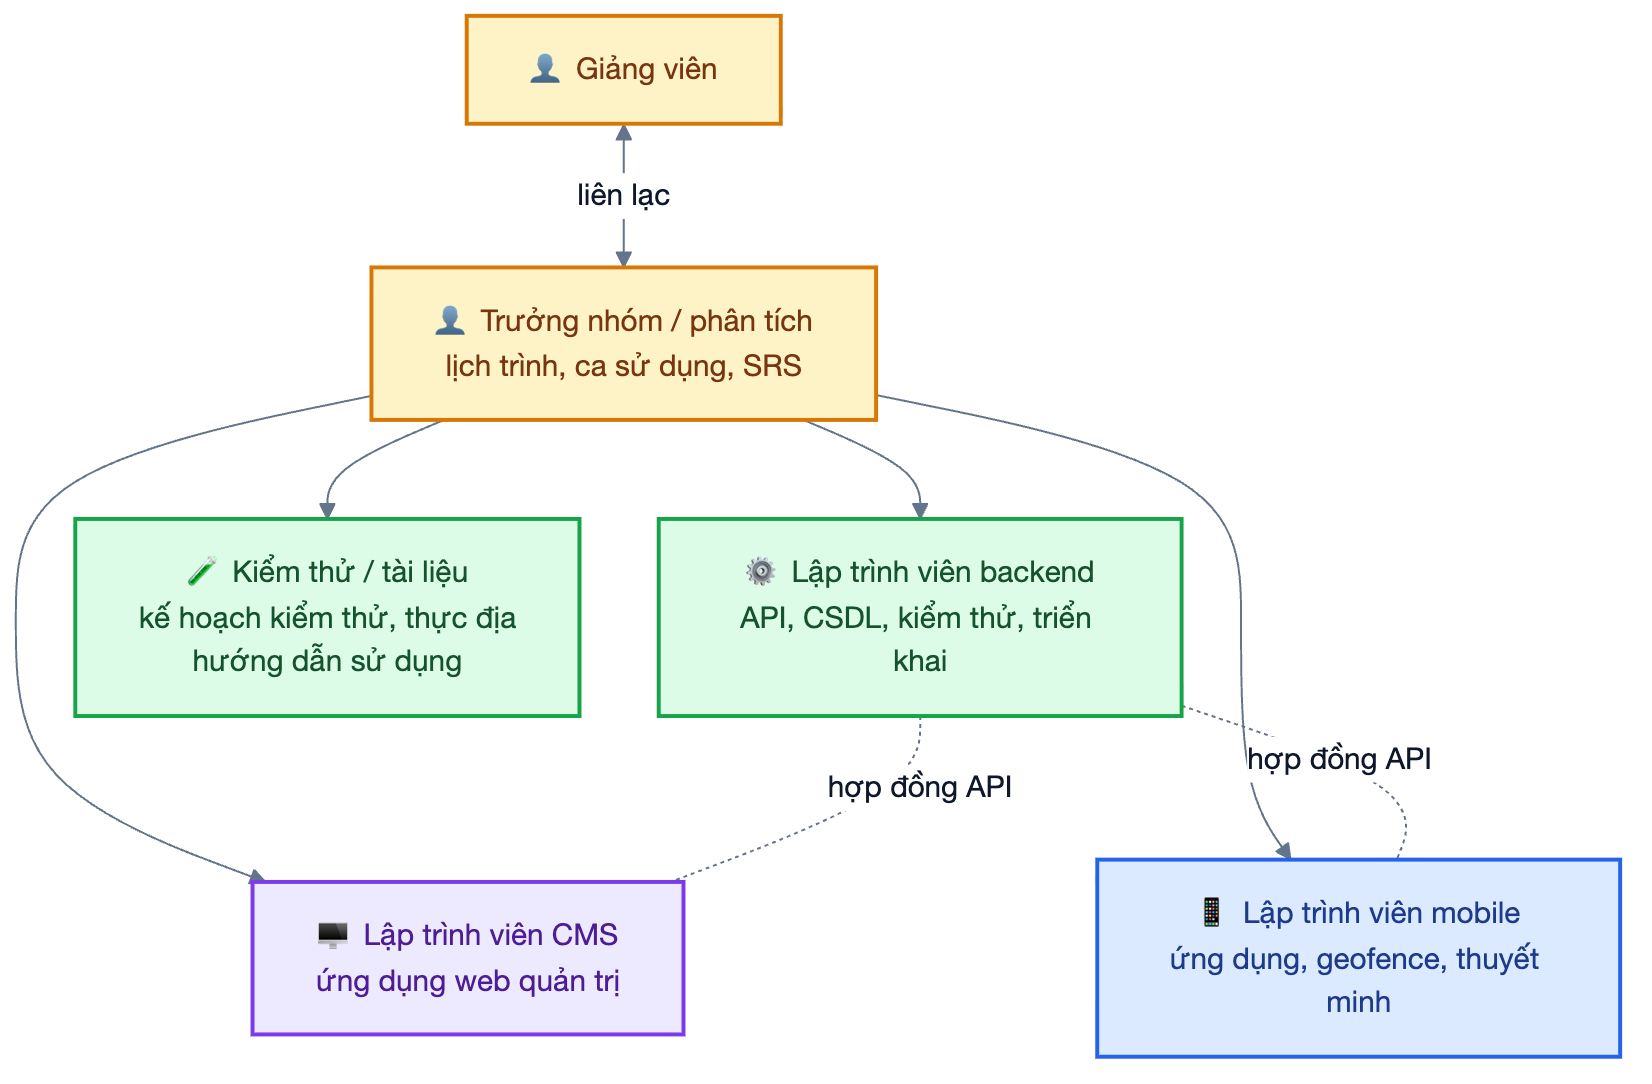
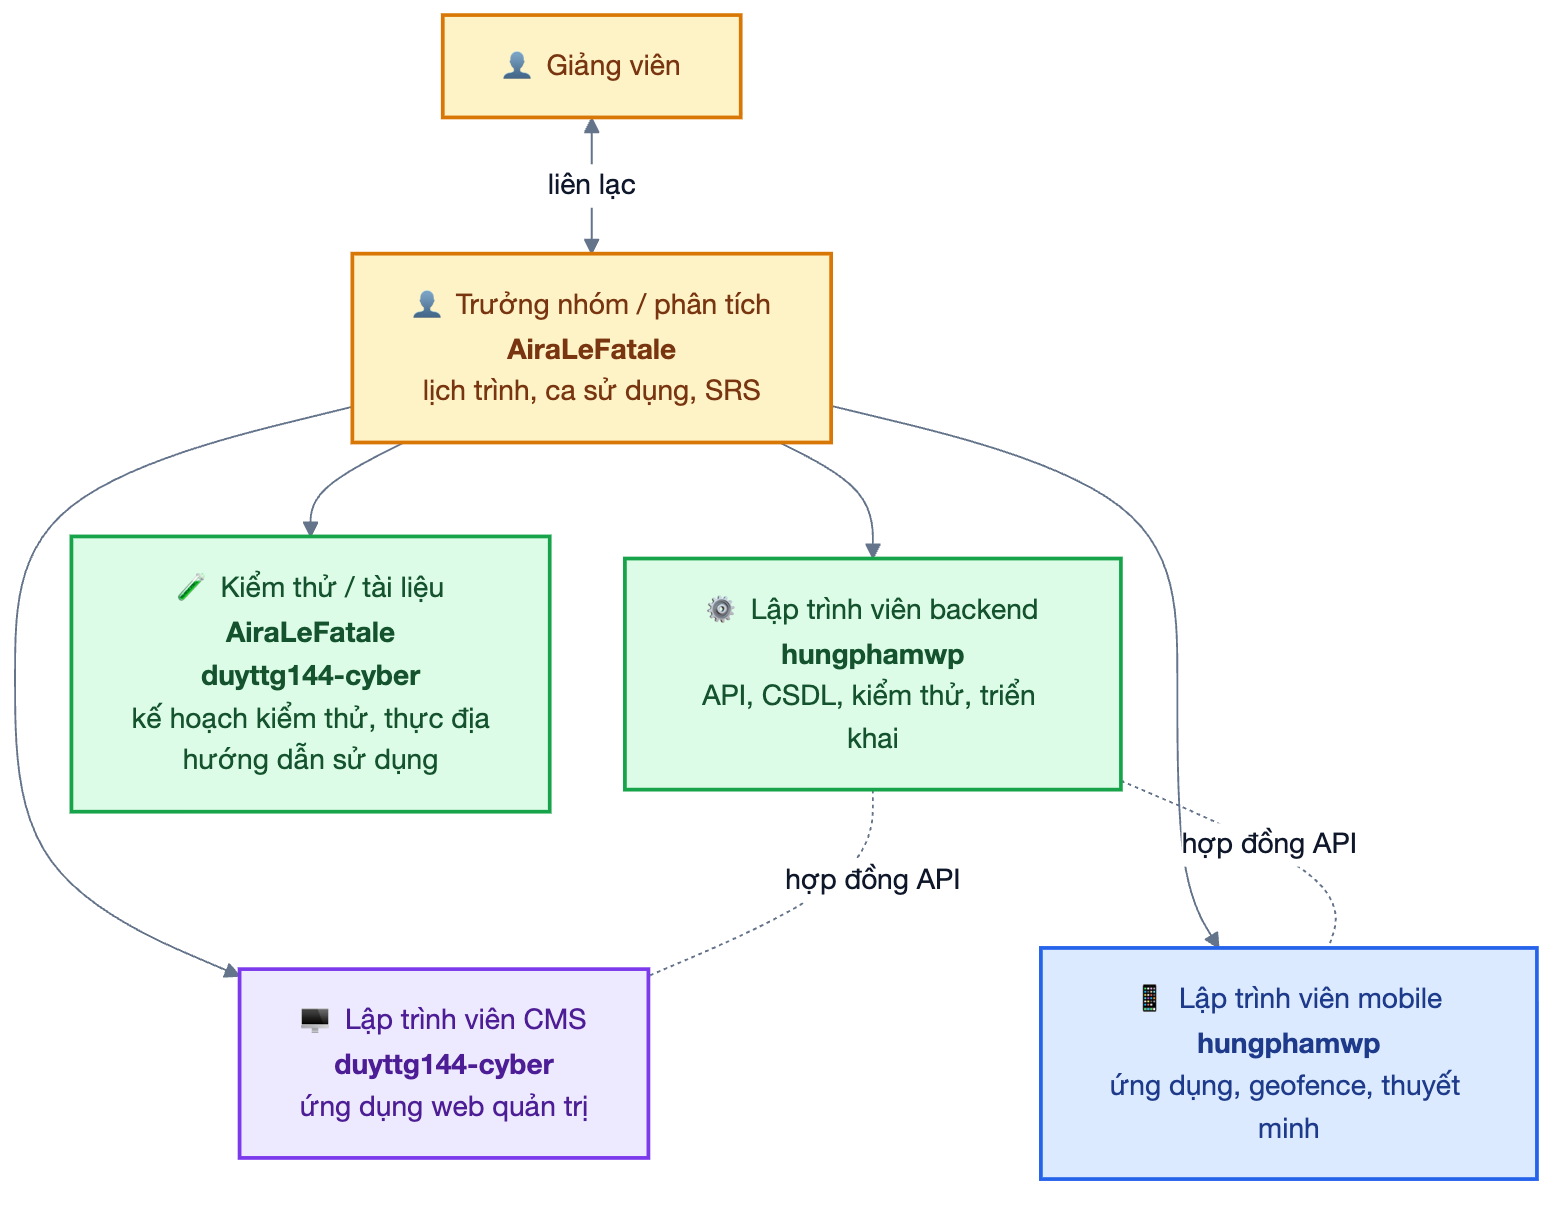
Phân chia vai trò cho 3 thành viên trong tài liệu quản lý dự án

diff --git a/docs/06-project-management.md b/docs/06-project-management.md
@@ -217,24 +217,30 @@ Biểu đồ chỉ thể hiện các ngày có ghi nhận trong lịch sử kho 
 
 | Vai trò | Trách nhiệm | Thành viên |
 |---|---|---|
-| Trưởng nhóm / phân tích | Lịch trình, ca sử dụng, SRS, liên lạc với giảng viên | Cần bổ sung: tên |
-| Lập trình viên backend | API, cơ sở dữ liệu, kiểm thử, triển khai | Cần bổ sung: tên |
-| Lập trình viên CMS | Ứng dụng web quản trị | Cần bổ sung: tên |
-| Lập trình viên mobile | Ứng dụng, bộ máy geofence và bộ máy thuyết minh | Cần bổ sung: tên |
-| Kiểm thử / tài liệu | Thực hiện kế hoạch kiểm thử, kiểm thử thực địa, hướng dẫn sử dụng | Cần bổ sung: tên |
+| Trưởng nhóm / phân tích | Lịch trình, ca sử dụng, SRS, liên lạc với giảng viên | AiraLeFatale |
+| Lập trình viên backend | API, cơ sở dữ liệu, kiểm thử, triển khai | hungphamwp |
+| Lập trình viên CMS | Ứng dụng web quản trị | duyttg144-cyber |
+| Lập trình viên mobile | Ứng dụng, bộ máy geofence và bộ máy thuyết minh | hungphamwp |
+| Kiểm thử / tài liệu | Thực hiện kế hoạch kiểm thử, kiểm thử thực địa, hướng dẫn sử dụng | AiraLeFatale, duyttg144-cyber |
 
-Một người có thể đảm nhận nhiều vai trò.
+Nhóm có 3 thành viên, mỗi người đảm nhận 2 vai trò:
+
+| Thành viên | Vai trò |
+|---|---|
+| AiraLeFatale | Trưởng nhóm / phân tích; kiểm thử / tài liệu |
+| hungphamwp | Lập trình viên backend; lập trình viên mobile |
+| duyttg144-cyber | Lập trình viên CMS; kiểm thử / tài liệu |
 
 ```mermaid
 %%{init: {"theme":"base","fontFamily":"Helvetica Neue, Arial, sans-serif","themeVariables":{"fontFamily":"Helvetica Neue, Arial, sans-serif","fontSize":"15px","primaryColor":"#EFF6FF","primaryBorderColor":"#3B82F6","primaryTextColor":"#0F172A","lineColor":"#64748B","secondaryColor":"#F0FDF4","tertiaryColor":"#FFFFFF","clusterBkg":"#F8FAFC","clusterBorder":"#CBD5E1","edgeLabelBackground":"#FFFFFF","noteBkgColor":"#FEF9C3","noteBorderColor":"#EAB308","actorBkg":"#DBEAFE","actorBorder":"#2563EB","actorTextColor":"#1E3A8A","signalColor":"#475569","signalTextColor":"#0F172A","labelBoxBkgColor":"#F1F5F9","labelBoxBorderColor":"#94A3B8","activationBkgColor":"#E0F2FE","activationBorderColor":"#0284C7","sequenceNumberColor":"#FFFFFF","pie1":"#16A34A","pie2":"#F59E0B","pie3":"#94A3B8","pie4":"#DC2626","pie5":"#2563EB","pie6":"#7C3AED","pieStrokeColor":"#FFFFFF","pieSectionTextColor":"#FFFFFF","quadrant1Fill":"#FEE2E2","quadrant2Fill":"#FEF3C7","quadrant3Fill":"#DCFCE7","quadrant4Fill":"#FEF3C7","quadrantPointFill":"#1E3A8A","quadrantPointTextFill":"#0F172A","git0":"#1E3A8A","gitBranchLabel0":"#FFFFFF","cScale0":"#DBEAFE","cScale1":"#DCFCE7","cScale2":"#EDE9FE","cScale3":"#FEF3C7","cScale4":"#FFE4E6","cScale5":"#E0F2FE","cScale6":"#F1F5F9"},"flowchart":{"curve":"basis","padding":16,"nodeSpacing":40,"rankSpacing":50},"sequence":{"showSequenceNumbers":true,"mirrorActors":false}}}%%
 flowchart TB
   GV["👤 Giảng viên"]:::actor
-  L["👤 Trưởng nhóm / phân tích<br/>lịch trình, ca sử dụng, SRS"]:::actor
+  L["👤 Trưởng nhóm / phân tích<br/><b>AiraLeFatale</b><br/>lịch trình, ca sử dụng, SRS"]:::actor
   GV <-- "liên lạc" --> L
-  L --> BE["⚙ Lập trình viên backend<br/>API, CSDL, kiểm thử, triển khai"]:::backend
-  L --> CM["🖥 Lập trình viên CMS<br/>ứng dụng web quản trị"]:::cms
-  L --> MO["📱 Lập trình viên mobile<br/>ứng dụng, geofence, thuyết minh"]:::mobile
-  L --> QA["🧪 Kiểm thử / tài liệu<br/>kế hoạch kiểm thử, thực địa<br/>hướng dẫn sử dụng"]:::ok
+  L --> BE["⚙ Lập trình viên backend<br/><b>hungphamwp</b><br/>API, CSDL, kiểm thử, triển khai"]:::backend
+  L --> CM["🖥 Lập trình viên CMS<br/><b>duyttg144-cyber</b><br/>ứng dụng web quản trị"]:::cms
+  L --> MO["📱 Lập trình viên mobile<br/><b>hungphamwp</b><br/>ứng dụng, geofence, thuyết minh"]:::mobile
+  L --> QA["🧪 Kiểm thử / tài liệu<br/><b>AiraLeFatale<br/>duyttg144-cyber</b><br/>kế hoạch kiểm thử, thực địa<br/>hướng dẫn sử dụng"]:::ok
   BE -. "hợp đồng API" .- CM
   BE -. "hợp đồng API" .- MO
   classDef actor fill:#FEF3C7,stroke:#D97706,stroke-width:2px,color:#78350F
@@ -243,7 +249,7 @@ flowchart TB
   classDef backend fill:#DCFCE7,stroke:#16A34A,stroke-width:2px,color:#14532D
   classDef ok fill:#DCFCE7,stroke:#16A34A,stroke-width:2px,color:#14532D
 ```
-*Hình: năm vai trò trong nhóm; tên thành viên còn cần bổ sung, một người có thể giữ nhiều vai trò*
+*Hình: 5 vai trò trong nhóm, chia đều cho 3 thành viên (mỗi người 2 vai trò)*
 
 ## 5. Rủi ro và biện pháp giảm thiểu
 
